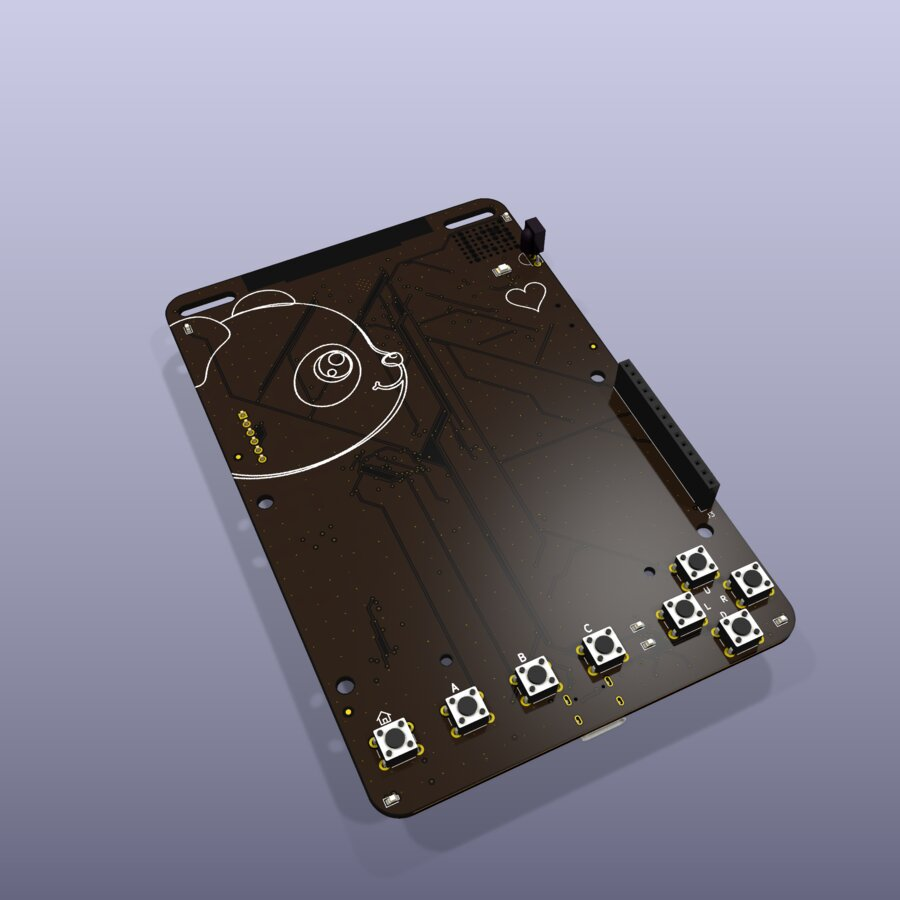
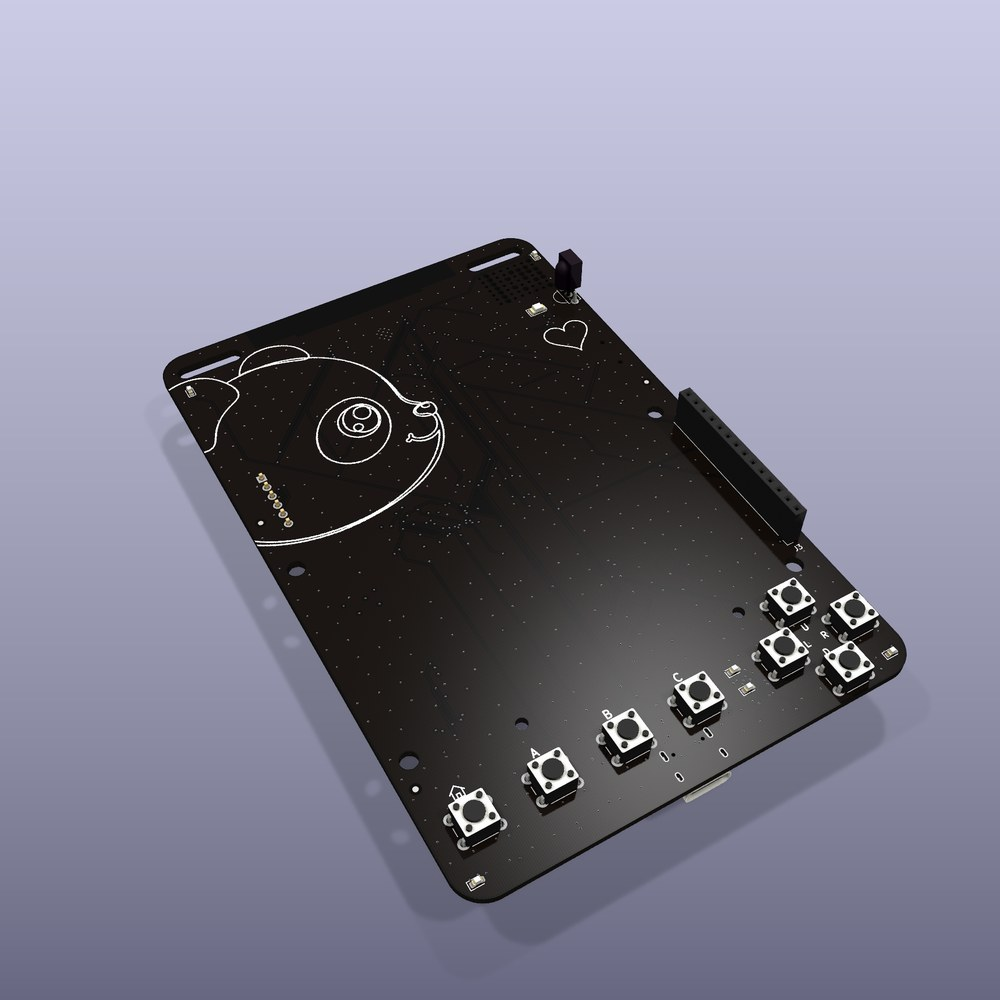
Board: FALERA silkscreen, black mask and HASL in the stackup, new renders
- Back silkscreen: OREO BADGE -> FALERA BADGE, oreo.elixpo.com ->
  falera.elixpo.com, github.com/elixpo/oreo -> github.com/elixpo/falera
  (same layer, size, font and position). Title block: Falera Badge.
- Stackup: solder mask colour #0A0A0AF0 (KiCad's named "Black" is
  translucent and renders brown over the copper), copper finish
  HAL lead-free, matching the boards ordered (black mask, white
  silkscreen, HASL). generate_badge_pcb.py writes the same.
- renders/front.jpg, back.jpg, top-angle.jpg re-rendered with the stackup
  colours by the new render_board.py, which also exports the website's
  3D model (KiCad GLB, materials tuned, Draco-compressed).
- DRC: 4 warnings before and after (3 silk_edge_clearance, 1
  lib_footprint_mismatch), 0 unconnected. No copper, footprint or net
  changes.

The first boards were fabricated before the rename and still say OREO.

Changed region(s): [[0.1556, 0.2178, 0.9022, 0.9333], [0.4356, 0.4978, 0.4667, 0.5289]]

diff --git a/circuit/elixpo/render_board.py b/circuit/elixpo/render_board.py
@@ -1,0 +1,123 @@
+#!/usr/bin/env python3
+# SPDX-License-Identifier: MIT
+"""Re-render the board images and the website's 3D model from elixpo.kicad_pcb.
+
+    python3 circuit/elixpo/render_board.py            # renders and GLB
+    python3 circuit/elixpo/render_board.py --renders  # renders only
+    python3 circuit/elixpo/render_board.py --glb      # GLB only
+
+Renders: renders/front.jpg, back.jpg and top-angle.jpg, with the board
+stackup colours (black mask, white silkscreen, HASL). Needs kicad-cli 10
+and Pillow.
+
+GLB: falera.elixpo/public/models/falera-badge.glb, the model the badge page's
+3D viewer shows. kicad-cli exports the board with its component models; the
+materials are retuned for a web viewer (opaque near-black mask with a satin
+sheen, silver HASL pads), and `@gltf-transform/cli optimize` (fetched by npx)
+dedups, welds and Draco-compresses it. Needs Node.js for npx.
+"""
+import argparse
+import json
+import struct
+import subprocess
+import sys
+import tempfile
+from pathlib import Path
+
+HERE = Path(__file__).resolve().parent
+PCB = HERE / "elixpo.kicad_pcb"
+RENDERS = HERE / "renders"
+GLB_OUT = HERE.parent.parent / "falera.elixpo" / "public" / "models" / "falera-badge.glb"
+GLTF_TRANSFORM = "@gltf-transform/cli@4.2.1"
+
+RENDER = ["kicad-cli", "pcb", "render", "--use-board-stackup-colors",
+          "--quality", "high", "--background", "opaque"]
+
+
+def render_images(tmp):
+    from PIL import Image
+
+    def run(name, *args):
+        out = tmp / f"{name}.png"
+        subprocess.run(RENDER + list(args) + ["-o", str(out), str(PCB)],
+                       check=True, stdout=subprocess.DEVNULL)
+        return Image.open(out).convert("RGB")
+
+    RENDERS.mkdir(exist_ok=True)
+    for name, side in (("front", "top"), ("back", "bottom")):
+        im = run(name, "-w", "1400", "-h", "2000", "--side", side)
+        im = im.crop((36, 14, 1340, 1978))          # the board plus a thin margin
+        im = im.resize((round(im.width * 0.62), round(im.height * 0.62)), Image.LANCZOS)
+        im.save(RENDERS / f"{name}.jpg", quality=88, optimize=True, progressive=True)
+    im = run("top-angle", "-w", "1800", "-h", "1800", "--perspective",
+             "--rotate", "-40,0,30", "--zoom", "0.72")
+    im.resize((1000, 1000), Image.LANCZOS).save(
+        RENDERS / "top-angle.jpg", quality=88, optimize=True, progressive=True)
+    print(f"renders -> {RENDERS}")
+
+
+def tune_materials(src, dst):
+    """Rewrite the PBR factors KiCad gives the board's own meshes."""
+    b = src.read_bytes()
+    n = struct.unpack("<I", b[12:16])[0]
+    j = json.loads(b[20:20 + n])
+    rest = b[20 + n:]
+    looks = {
+        "_soldermask": ([0.006, 0.006, 0.007, 1.0], 0.0, 0.38),
+        "_pad":        ([0.80, 0.80, 0.82, 1.0], 1.0, 0.28),
+        "_PCB":        ([0.42, 0.45, 0.29, 1.0], 0.0, 0.80),
+    }
+    for mesh in j["meshes"]:
+        for suffix, (base, metal, rough) in looks.items():
+            if mesh.get("name", "").endswith(suffix):
+                for prim in mesh["primitives"]:
+                    mat = j["materials"][prim["material"]]
+                    mat.setdefault("pbrMetallicRoughness", {}).update(
+                        baseColorFactor=base, metallicFactor=metal, roughnessFactor=rough)
+                    mat.pop("alphaMode", None)
+    js = json.dumps(j, separators=(",", ":")).encode()
+    js += b" " * (-len(js) % 4)
+    dst.write_bytes(b"glTF" + struct.pack("<II", 2, 20 + len(js) + len(rest))
+                    + struct.pack("<I", len(js)) + b"JSON" + js + rest)
+
+
+def export_glb(tmp):
+    raw, tuned = tmp / "raw.glb", tmp / "tuned.glb"
+    res = subprocess.run(
+        ["kicad-cli", "pcb", "export", "glb", "-f", "--subst-models",
+         "--include-pads", "--include-silkscreen", "--include-soldermask",
+         "-o", str(raw), str(PCB)],
+        check=True, capture_output=True, text=True)
+    missing = sorted({line for line in (res.stdout + res.stderr).splitlines()
+                      if line.startswith("Could not add 3D model")})
+    for line in missing:
+        print("  " + line)
+    tune_materials(raw, tuned)
+    GLB_OUT.parent.mkdir(parents=True, exist_ok=True)
+    # Instancing is off: it confuses bounding boxes in some viewers.
+    # Simplification is off, to keep the full detail of the KiCad models.
+    subprocess.run(["npx", "-y", GLTF_TRANSFORM, "optimize", str(tuned), str(GLB_OUT),
+                    "--compress", "draco", "--texture-compress", "false",
+                    "--instance", "false", "--simplify", "false"],
+                   check=True, cwd=tmp)
+    print(f"GLB {raw.stat().st_size / 1e6:.1f} MB -> {GLB_OUT} "
+          f"{GLB_OUT.stat().st_size / 1e3:.0f} kB")
+
+
+def main():
+    ap = argparse.ArgumentParser(description=__doc__.splitlines()[0])
+    ap.add_argument("--renders", action="store_true", help="only the JPEG renders")
+    ap.add_argument("--glb", action="store_true", help="only the web GLB")
+    a = ap.parse_args()
+    both = not (a.renders or a.glb)
+    with tempfile.TemporaryDirectory() as d:
+        tmp = Path(d)
+        if both or a.renders:
+            render_images(tmp)
+        if both or a.glb:
+            export_glb(tmp)
+    return 0
+
+
+if __name__ == "__main__":
+    sys.exit(main())

diff --git a/circuit/elixpo/generate_badge_pcb.py b/circuit/elixpo/generate_badge_pcb.py
@@ -57,7 +57,7 @@ HEART = (79.0, 35.5, 11.0)                # front, far right, where the panda is
 # in the free column beside the ESP32-S3 module, under the clip slot.
 BACK_ROW_Y = 47.5                          # centre line of "Elixpo"
 BACK_COLUMN = (15.0, 9.0)                  # front-view centre x and top of the column
-REPO_URL = "github.com/elixpo/oreo"            # under "Elixpo"
+REPO_URL = "github.com/elixpo/falera"            # under "Elixpo"
 JLC_MARK = None                                 # no JLCPCB order number ("Remove Mark")
 OSHW_H = 12.0                              # height of the OSHWA certification mark
 
@@ -584,8 +584,8 @@ def silkscreen(board):
     add_text(board, bs, "Elixpo", mid, y0, 4.2, 0.6, mirror=True, bold=True)
     add_text(board, bs, REPO_URL, mid, y0 + 4.6, 1.0, 0.15, mirror=True)
     tx, ty = BACK_COLUMN
-    for text, dy, size, thick, bold in (("OREO BADGE", OSHW_H + 3.0, 1.5, 0.25, True),
-                                        ("oreo.elixpo.com", OSHW_H + 5.8, 1.0, 0.15, False),
+    for text, dy, size, thick, bold in (("FALERA BADGE", OSHW_H + 3.0, 1.5, 0.25, True),
+                                        ("falera.elixpo.com", OSHW_H + 5.8, 1.0, 0.15, False),
                                         ("CERN-OHL-P-2.0", OSHW_H + 8.2, 0.9, 0.15, False),
                                         ("A/A-2509-0023", OSHW_H + 10.6, 0.9, 0.15, False)):
         add_text(board, bs, text, tx, ty + dy, size, thick, mirror=True, bold=bold)
@@ -724,7 +724,7 @@ def write_netclasses():
 STACKUP_6 = """\t\t(stackup
 \t\t\t(layer "F.SilkS" (type "Top Silk Screen") (color "White"))
 \t\t\t(layer "F.Paste" (type "Top Solder Paste"))
-\t\t\t(layer "F.Mask" (type "Top Solder Mask") (color "Black") (thickness 0.01))
+\t\t\t(layer "F.Mask" (type "Top Solder Mask") (color "#0A0A0AF0") (thickness 0.01))
 \t\t\t(layer "F.Cu" (type "copper") (thickness 0.035))
 \t\t\t(layer "dielectric 1" (type "prepreg") (thickness 0.1) (material "FR4") (epsilon_r 4.5) (loss_tangent 0.02))
 \t\t\t(layer "In1.Cu" (type "copper") (thickness 0.035))
@@ -736,10 +736,10 @@ STACKUP_6 = """\t\t(stackup
 \t\t\t(layer "In4.Cu" (type "copper") (thickness 0.035))
 \t\t\t(layer "dielectric 5" (type "prepreg") (thickness 0.1) (material "FR4") (epsilon_r 4.5) (loss_tangent 0.02))
 \t\t\t(layer "B.Cu" (type "copper") (thickness 0.035))
-\t\t\t(layer "B.Mask" (type "Bottom Solder Mask") (color "Black") (thickness 0.01))
+\t\t\t(layer "B.Mask" (type "Bottom Solder Mask") (color "#0A0A0AF0") (thickness 0.01))
 \t\t\t(layer "B.Paste" (type "Bottom Solder Paste"))
 \t\t\t(layer "B.SilkS" (type "Bottom Silk Screen") (color "White"))
-\t\t\t(copper_finish "ENIG")
+\t\t\t(copper_finish "HAL lead-free")
 \t\t\t(dielectric_constraints no)
 \t\t)
 """
@@ -748,7 +748,7 @@ STACKUP_6 = """\t\t(stackup
 STACKUP_4 = """\t\t(stackup
 \t\t\t(layer "F.SilkS" (type "Top Silk Screen") (color "White"))
 \t\t\t(layer "F.Paste" (type "Top Solder Paste"))
-\t\t\t(layer "F.Mask" (type "Top Solder Mask") (color "Black") (thickness 0.01))
+\t\t\t(layer "F.Mask" (type "Top Solder Mask") (color "#0A0A0AF0") (thickness 0.01))
 \t\t\t(layer "F.Cu" (type "copper") (thickness 0.035))
 \t\t\t(layer "dielectric 1" (type "prepreg") (thickness 0.2104) (material "FR4") (epsilon_r 4.4) (loss_tangent 0.02))
 \t\t\t(layer "In1.Cu" (type "copper") (thickness 0.0152))
@@ -756,17 +756,17 @@ STACKUP_4 = """\t\t(stackup
 \t\t\t(layer "In2.Cu" (type "copper") (thickness 0.0152))
 \t\t\t(layer "dielectric 3" (type "prepreg") (thickness 0.2104) (material "FR4") (epsilon_r 4.4) (loss_tangent 0.02))
 \t\t\t(layer "B.Cu" (type "copper") (thickness 0.035))
-\t\t\t(layer "B.Mask" (type "Bottom Solder Mask") (color "Black") (thickness 0.01))
+\t\t\t(layer "B.Mask" (type "Bottom Solder Mask") (color "#0A0A0AF0") (thickness 0.01))
 \t\t\t(layer "B.Paste" (type "Bottom Solder Paste"))
 \t\t\t(layer "B.SilkS" (type "Bottom Silk Screen") (color "White"))
-\t\t\t(copper_finish "ENIG")
+\t\t\t(copper_finish "HAL lead-free")
 \t\t\t(dielectric_constraints no)
 \t\t)
 """
 STACKUP = STACKUP_4 if COPPER_LAYERS == 4 else STACKUP_6   # JLCPCB JLC04161H-7628 for 4 layers
 
 
-TITLE_BLOCK_FMT = '\t(title_block\n\t\t(title "Oreo Badge")\n\t\t(date "2026-11-15")\n\t\t(rev "1.0")\n\t\t(company "Elixpo")\n\t\t(comment 1 "Hardware: CERN-OHL-P-2.0, OSHWA IN000107")\n\t\t(comment 2 "%d layers, 1.6 mm, ENIG, black mask")\n\t)\n'
+TITLE_BLOCK_FMT = '\t(title_block\n\t\t(title "Falera Badge")\n\t\t(date "2026-11-15")\n\t\t(rev "1.0")\n\t\t(company "Elixpo")\n\t\t(comment 1 "Hardware: CERN-OHL-P-2.0, OSHWA IN000107")\n\t\t(comment 2 "%d layers, 1.6 mm, HASL, black mask")\n\t)\n'
 
 
 TITLE_BLOCK = TITLE_BLOCK_FMT % COPPER_LAYERS

diff --git a/circuit/elixpo/README.md b/circuit/elixpo/README.md
@@ -22,6 +22,14 @@ schematic, `elixpo.kicad_sch`, links five sheets:
 5. MAX98357A speaker amp, MPU-6050, microSD, infrared, status LED, Qwiic and the
    J6 expansion header.
 
+The renders, and the 3D model on the website's badge page
+(`falera.elixpo/public/models/falera-badge.glb`), come from
+`python3 circuit/elixpo/render_board.py`. They use the board stackup colours:
+black mask, white silkscreen, HASL. The first five boards were made before the
+rename, so their silkscreen still says OREO BADGE and oreo.elixpo.com; the
+design files now say FALERA BADGE, falera.elixpo.com and
+github.com/elixpo/falera.
+
 Run `./circuit/elixpo/build.sh` from any directory to regenerate the design and
 produce the ERC report, PDF and KiCad-native BOM under `circuit/elixpo/build/`.
 
